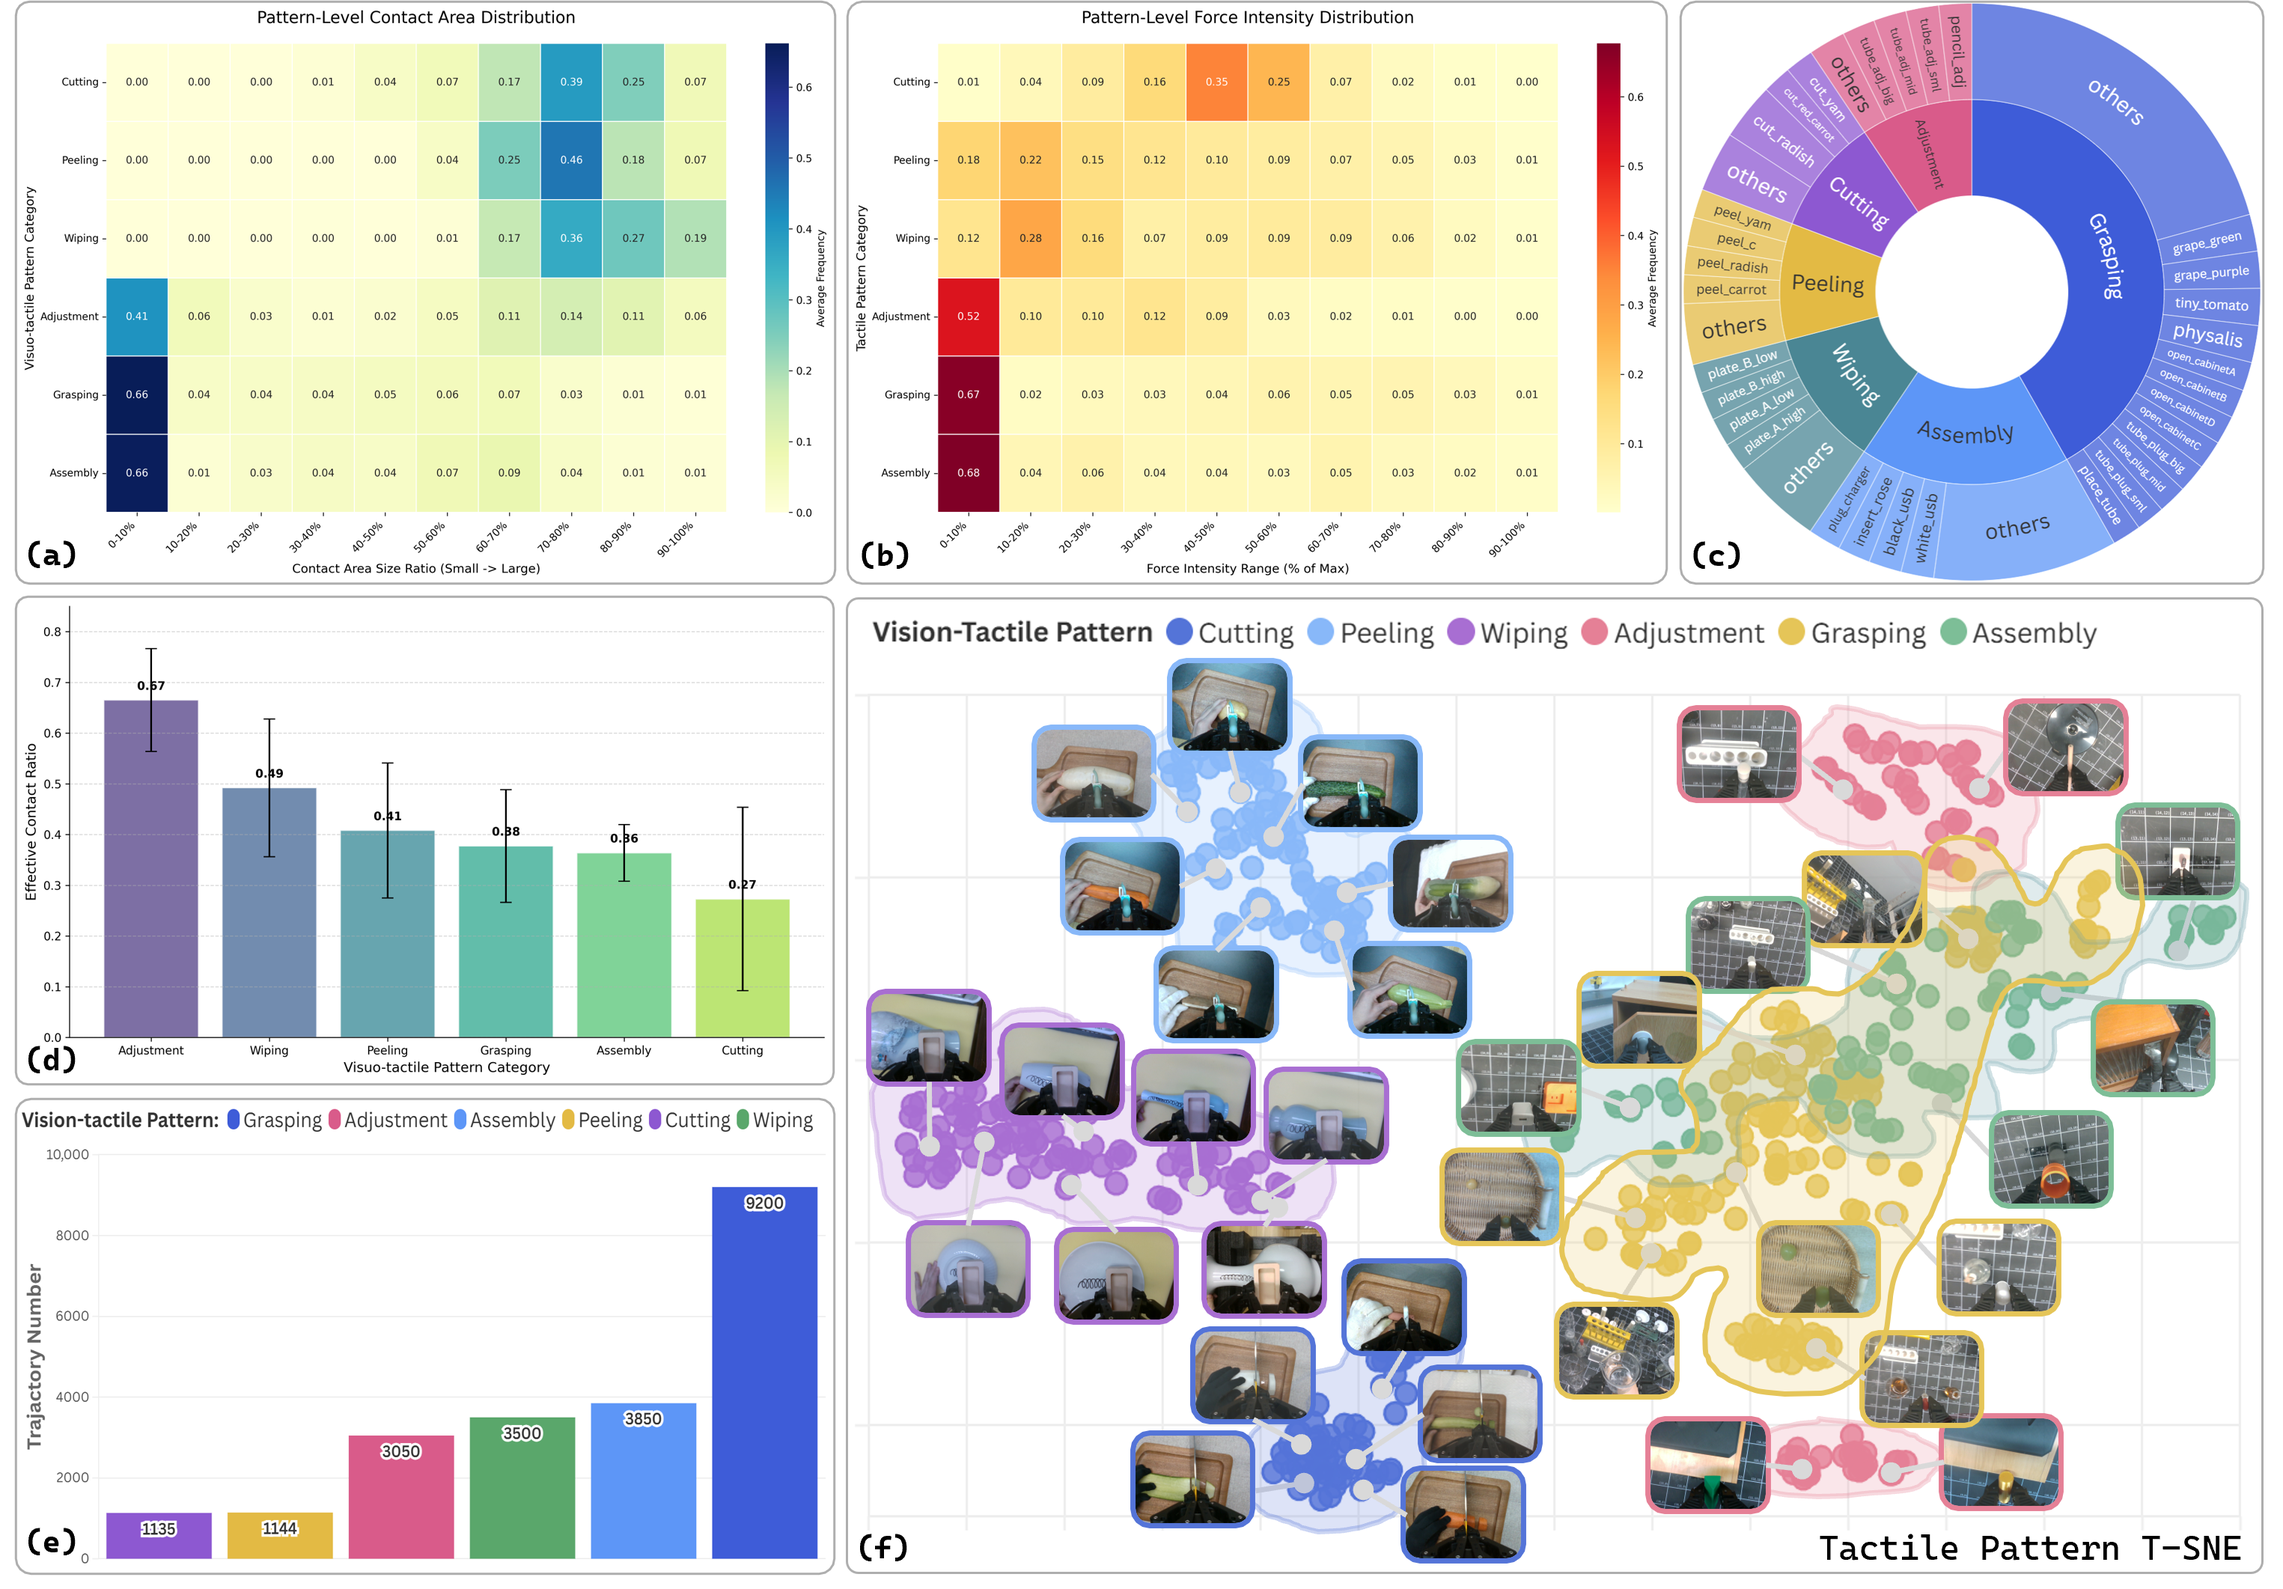
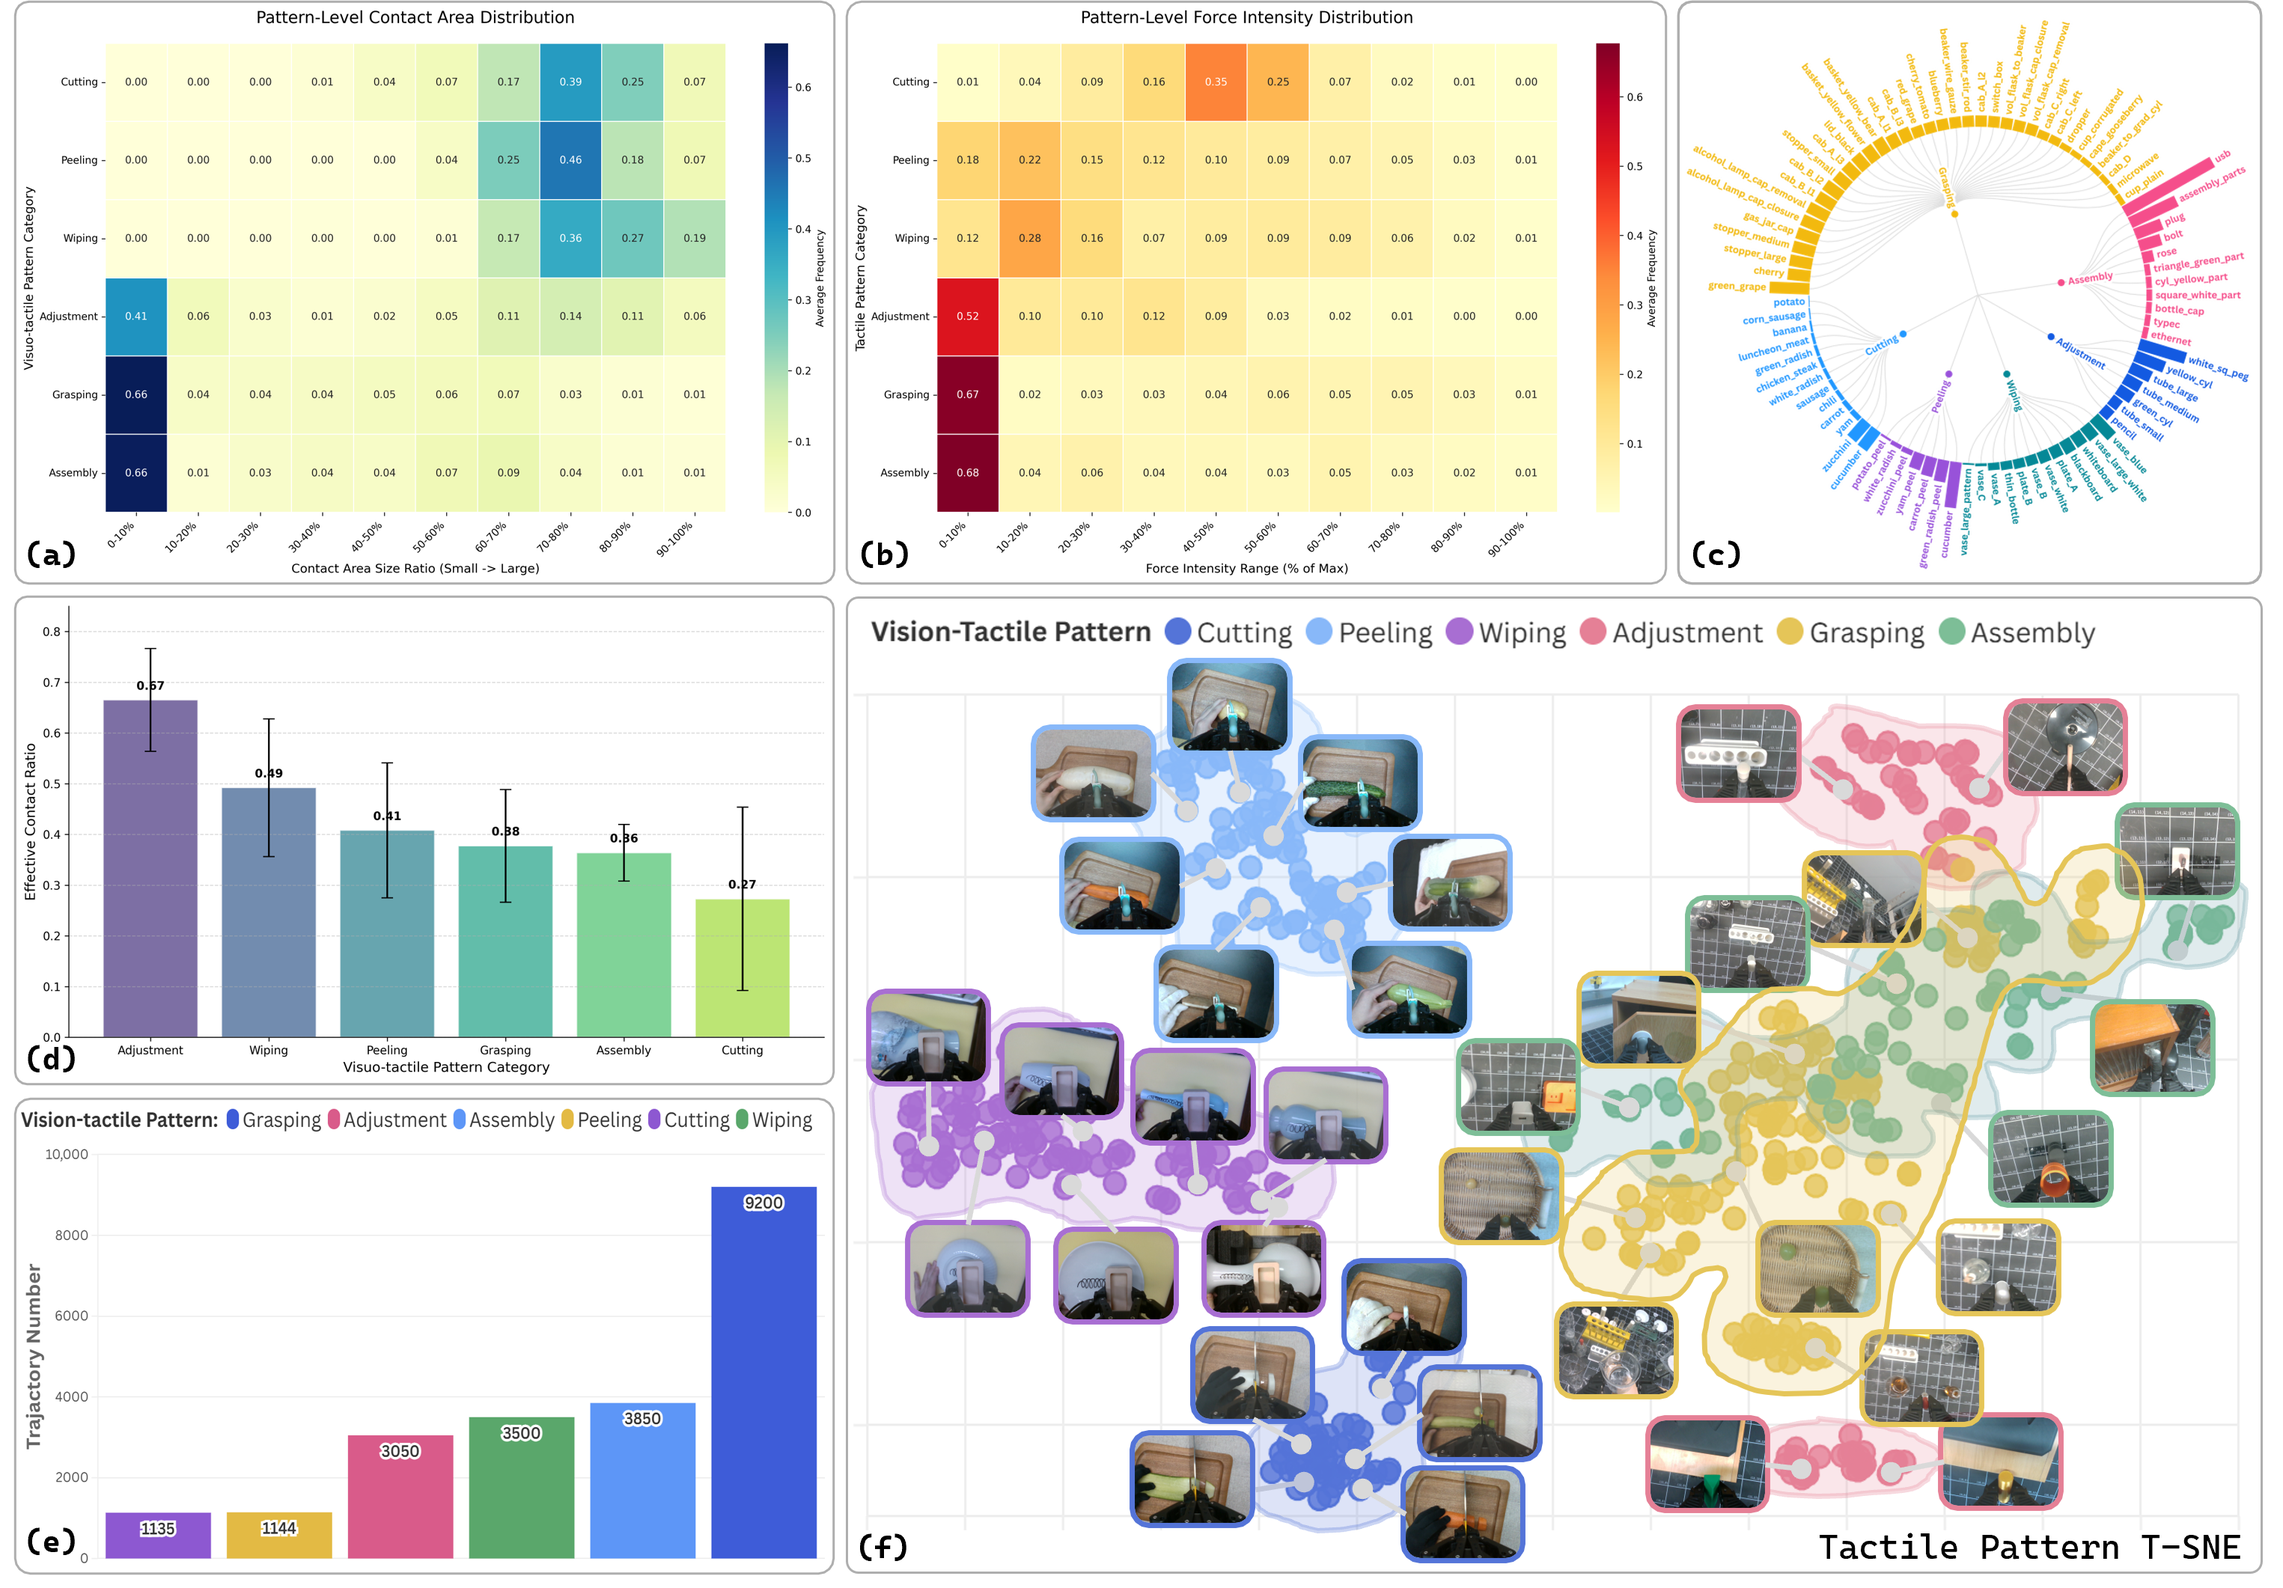
update authors

diff --git a/index.html b/index.html
@@ -396,7 +396,7 @@
       <span class="dot-dash">.</span>
 
       <div class="buttons" style="display:flex; justify-content:center; align-items:center; gap:12px; flex-wrap:wrap; width:100%;">
-        <a href="">
+        <a href="https://arxiv.org/abs/2603.19201v1">
           <div class="button">
             <svg class="svg-inline--fa fa-file-pdf fa-w-12 fa-lg" style="width: 20px; height: 20px; margin-top:0%" aria-hidden="true" focusable="false" data-prefix="fas" data-icon="file-pdf" role="img" xmlns="http://www.w3.org/2000/svg" viewBox="0 0 384 500">
               <path fill="currentColor" d="M181.9 256.1c-5-16-4.9-46.9-2-46.9 8.4 0 7.6 36.9 2 46.9zm-1.7 47.2c-7.7 20.2-17.3 43.3-28.4 62.7 18.3-7 39-17.2 62.9-21.9-12.7-9.6-24.9-23.4-34.5-40.8zM86.1 428.1c0 .8 13.2-5.4 34.9-40.2-6.7 6.3-29.1 24.5-34.9 40.2zM248 160h136v328c0 13.3-10.7 24-24 24H24c-13.3 0-24-10.7-24-24V24C0 10.7 10.7 0 24 0h200v136c0 13.2 10.8 24 24 24zm-8 171.8c-20-12.2-33.3-29-42.7-53.8 4.5-18.5 11.6-46.6 6.2-64.2-4.7-29.4-42.4-26.5-47.8-6.8-5 18.3-.4 44.1 8.1 77-11.6 27.6-28.7 64.6-40.8 85.8-.1 0-.1.1-.2.1-27.1 13.9-73.6 44.5-54.5 68 5.6 6.9 16 10 21.5 10 17.9 0 35.7-18 61.1-61.8 25.8-8.5 54.1-19.1 79-23.2 21.7 11.8 47.1 19.5 64 19.5 29.2 0 31.2-32 19.7-43.4-13.9-13.6-54.3-9.7-73.6-7.2zM377 105L279 7c-4.5-4.5-10.6-7-17-7h-6v128h128v-6.1c0-6.3-2.5-12.4-7-16.9zm-74.1 255.3c4.1-2.7-2.5-11.9-42.8-9 37.1 15.8 42.8 9 42.8 9z"></path>
@@ -404,7 +404,7 @@
           </div>
         </a>
 
-        <a href="">
+        <a href="https://github.com/MrSecant/OmniVTA">
           <div class="button">
             <svg class="svg-inline--fa fa-github fa-w-16" style="width: 20px; height: 20px;" aria-hidden="true" focusable="false" data-prefix="fab" data-icon="github" role="img" xmlns="http://www.w3.org/2000/svg" viewBox="0 -50 484 500">
               <path fill="currentColor" d="M165.9 397.4c0 2-2.3 3.6-5.2 3.6-3.3.3-5.6-1.3-5.6-3.6 0-2 2.3-3.6 5.2-3.6 3-.3 5.6 1.3 5.6 3.6zm-31.1-4.5c-.7 2 1.3 4.3 4.3 4.9 2.6 1 5.6 0 6.2-2s-1.3-4.3-4.3-5.2c-2.6-.7-5.5.3-6.2 2.3zm44.2-1.7c-2.9.7-4.9 2.6-4.6 4.9.3 2 2.9 3.3 5.9 2.6 2.9-.7 4.9-2.6 4.6-4.6-.3-1.9-3-3.2-5.9-2.9zM244.8 8C106.1 8 0 113.3 0 252c0 110.9 69.8 205.8 169.5 239.2 12.8 2.3 17.3-5.6 17.3-12.1 0-6.2-.3-40.4-.3-61.4 0 0-70 15-84.7-29.8 0 0-11.4-29.1-27.8-36.6 0 0-22.9-15.7 1.6-15.4 0 0 24.9 2 38.6 25.8 21.9 38.6 58.6 27.5 72.9 20.9 2.3-16 8.8-27.1 16-33.7-55.9-6.2-112.3-14.3-112.3-110.5 0-27.5 7.6-41.3 23.6-58.9-2.6-6.5-11.1-33.3 2.6-67.9 20.9-6.5 69 27 69 27 20-5.6 41.5-8.5 62.8-8.5s42.8 2.9 62.8 8.5c0 0 48.1-33.6 69-27 13.7 34.7 5.2 61.4 2.6 67.9 16 17.7 25.8 31.5 25.8 58.9 0 96.5-58.9 104.2-114.8 110.5 9.2 7.9 17 22.9 17 46.4 0 33.7-.3 75.4-.3 83.6 0 6.5 4.6 14.4 17.3 12.1C428.2 457.8 496 362.9 496 252 496 113.3 383.5 8 244.8 8zM97.2 352.9c-1.3 1-1 3.3.7 5.2 1.6 1.6 3.9 2.3 5.2 1 1.3-1 1-3.3-.7-5.2-1.6-1.6-3.9-2.3-5.2-1zm-10.8-8.1c-.7 1.3.3 2.9 2.3 3.9 1.6 1 3.6.7 4.3-.7.7-1.3-.3-2.9-2.3-3.9-2-.6-3.6-.3-4.3.7zm32.4 35.6c-1.6 1.3-1 4.3 1.3 6.2 2.3 2.3 5.2 2.6 6.5 1 1.3-1.3.7-4.3-1.3-6.2-2.2-2.3-5.2-2.6-6.5-1zm-11.4-14.7c-1.6 1-1.6 3.6 0 5.9 1.6 2.3 4.3 3.3 5.6 2.3 1.6-1.3 1.6-3.9 0-6.2-1.4-2.3-4-3.3-5.6-2z"></path>
@@ -412,7 +412,7 @@
           </div>
         </a>
 
-        <a href="">
+        <a href="https://github.com/MrSecant/OmniVTA_Hardware">
           <div class="button">
             <svg class="svg-inline--fa fa-github fa-w-16" style="width: 20px; height: 20px;" aria-hidden="true" focusable="false" data-prefix="fab" data-icon="github" role="img" xmlns="http://www.w3.org/2000/svg" viewBox="0 -50 484 500">
               <path fill="currentColor" d="M165.9 397.4c0 2-2.3 3.6-5.2 3.6-3.3.3-5.6-1.3-5.6-3.6 0-2 2.3-3.6 5.2-3.6 3-.3 5.6 1.3 5.6 3.6zm-31.1-4.5c-.7 2 1.3 4.3 4.3 4.9 2.6 1 5.6 0 6.2-2s-1.3-4.3-4.3-5.2c-2.6-.7-5.5.3-6.2 2.3zm44.2-1.7c-2.9.7-4.9 2.6-4.6 4.9.3 2 2.9 3.3 5.9 2.6 2.9-.7 4.9-2.6 4.6-4.6-.3-1.9-3-3.2-5.9-2.9zM244.8 8C106.1 8 0 113.3 0 252c0 110.9 69.8 205.8 169.5 239.2 12.8 2.3 17.3-5.6 17.3-12.1 0-6.2-.3-40.4-.3-61.4 0 0-70 15-84.7-29.8 0 0-11.4-29.1-27.8-36.6 0 0-22.9-15.7 1.6-15.4 0 0 24.9 2 38.6 25.8 21.9 38.6 58.6 27.5 72.9 20.9 2.3-16 8.8-27.1 16-33.7-55.9-6.2-112.3-14.3-112.3-110.5 0-27.5 7.6-41.3 23.6-58.9-2.6-6.5-11.1-33.3 2.6-67.9 20.9-6.5 69 27 69 27 20-5.6 41.5-8.5 62.8-8.5s42.8 2.9 62.8 8.5c0 0 48.1-33.6 69-27 13.7 34.7 5.2 61.4 2.6 67.9 16 17.7 25.8 31.5 25.8 58.9 0 96.5-58.9 104.2-114.8 110.5 9.2 7.9 17 22.9 17 46.4 0 33.7-.3 75.4-.3 83.6 0 6.5 4.6 14.4 17.3 12.1C428.2 457.8 496 362.9 496 252 496 113.3 383.5 8 244.8 8zM97.2 352.9c-1.3 1-1 3.3.7 5.2 1.6 1.6 3.9 2.3 5.2 1 1.3-1 1-3.3-.7-5.2-1.6-1.6-3.9-2.3-5.2-1zm-10.8-8.1c-.7 1.3.3 2.9 2.3 3.9 1.6 1 3.6.7 4.3-.7.7-1.3-.3-2.9-2.3-3.9-2-.6-3.6-.3-4.3.7zm32.4 35.6c-1.6 1.3-1 4.3 1.3 6.2 2.3 2.3 5.2 2.6 6.5 1 1.3-1.3.7-4.3-1.3-6.2-2.2-2.3-5.2-2.6-6.5-1zm-11.4-14.7c-1.6 1-1.6 3.6 0 5.9 1.6 2.3 4.3 3.3 5.6 2.3 1.6-1.3 1.6-3.9 0-6.2-1.4-2.3-4-3.3-5.6-2z"></path>
@@ -420,7 +420,11 @@
           </div>
         </a>
 
-        <a href=""><div class="button" style="padding-left:23px"><i class="fas fa-database"></i>&nbsp;OmniViTac Dataset</div></a>
+        <a href="">
+          <div class="button" style="padding-left:23px">
+            <span>🤗</span>&nbsp;OmniViTac Dataset
+          </div>
+        </a>
         <a href=""><div class="button" style="padding-left:23px"><i class="fab fa-youtube"></i>&nbsp;Demo</div></a>
       </div>
     </div>
@@ -434,20 +438,37 @@
       <div style="text-align: center;">
         <div style="margin-bottom: 10px;">
           <img src="assets/author/tars.png"
-              style="width: auto; height: 150px; vertical-align: middle;">
+              style="width: auto; height: 250px; vertical-align: middle;">
         </div>
-
         <div>
           <img src="assets/author/nus.jpg" style="width: auto; height: 140px; vertical-align: middle; margin-right: -10px;">
           <img src="assets/author/fudan.png" style="width: auto; height: 120px; vertical-align: middle; margin-left: 0px; margin-right: 0px;">
           <img src="assets/author/casia.jpg" style="width: auto; height: 120px; vertical-align: middle; margin-left: 10px; margin-right: -15px;">
-          <img src="assets/author/clemson.png" style="width: auto; height: 120px; vertical-align: middle; margin-left: 0px; margin-right: -15px;">
-          <img src="assets/author/sjtu.png" style="width: auto; height: 120px; vertical-align: middle; margin-left: 0px; margin-right: 10px;">
           <img src="assets/author/thu.png" style="width: auto; height: 120px; vertical-align: middle; margin-left: 6px; margin-right: 16px;">
-          <img src="assets/author/hkustgz.png" style="width: auto; height: 120px; vertical-align: middle; margin-left: 6px; margin-right: 16px;">
-          <img src="assets/author/pku.png" style="width: auto; height: 120px; vertical-align: middle; margin-left: 0px; margin-right: 4px;">
-          <img src="assets/author/zgca.png" style="width: auto; height: 145px; vertical-align: middle; margin-left: 0px;">
+          <img src="assets/author/zgca.png" style="width: auto; height: 140px; vertical-align: middle; margin-left: 0px; margin-right: 4px;">
+          <img src="assets/author/buaa.png" style="width: auto; height: 120px; vertical-align: middle; margin-left: 0px;">
         </div>
+            <div class="is-size-5 publication-authors">
+              <!-- Paper authors -->
+              <span class="author-block"> <a href="https://mrsecant.github.io/" target="_blank" style="color:#1a73e8;">Yuhang Zheng</a><sup>1,2*</sup>,</span>
+              <span class="author-block"> <a href="https://scholar.google.com/citations?user=W-msX90AAAAJ&hl=en" target="_blank" style="color:#1a73e8;">Songen Gu</a><sup>1,3*</sup>,</span>
+              <span class="author-block"> <a href="https://ericlee0224.github.io/" target="_blank" style="color:#1a73e8;">Weize Li</a><sup>1</sup>,</span>
+              <span class="author-block"> <a href="https://scholar.google.com/citations?user=anGhGdYAAAAJ&hl=en" target="_blank" style="color:#1a73e8;">Yupeng Zheng</a><sup>1,4†</sup>,</span>
+              <span class="author-block"> <a>Yujie Zang</a style="color:#1a73e8;"><sup>2</sup>,</span>
+              <span class="author-block"> <a>Shuai Tian</a style="color:#1a73e8;"><sup>4</sup>,</span>
+              <span class="author-block"> <a href="https://getterupper.github.io/" target="_blank" style="color:#1a73e8;">Xiang Li</a><sup>1,5</sup>,</span>
+              <br>
+              <span class="author-block"> <a href="https://cehao1.github.io/" target="_blank" style="color:#1a73e8;">Ce Hao</a><sup>6</sup>,</span>
+              <span class="author-block"> <a href="https://chengaopro.github.io/" target="_blank" style="color:#1a73e8;">Chen Gao</a><sup>2,7</sup>,</span>
+              <span class="author-block"> <a href="https://sites.google.com/site/siliuhome/" target="_blank" style="color:#1a73e8;">Si Liu</a><sup>7</sup>,</span>
+              <span class="author-block"> <a href="https://haoranli-drl.github.io/" target="_blank" style="color:#1a73e8;">Haoran Li</a><sup>4</sup>,</span>
+              <span class="author-block"> <a href="https://air.tsinghua.edu.cn/en/info/1046/1621.htm" target="_blank" style="color:#1a73e8;">Yilun Chen</a><sup>1</sup>,</span>
+              <span class="author-block"> <a href="https://scholar.google.com/citations?user=W-msX90AAAAJ" target="_blank" style="color:#1a73e8;">Shuicheng Yan</a><sup>2†</sup>,</span>
+              <span class="author-block"> <a style="color:#1a73e8;">Wenchao Ding</a><sup>2†</sup>,</span>
+
+              <span class="eql-cntrb"><br><strong>(<sup>*</sup>Equal Contribution; <sup>†</sup>Corresponding Author)</strong></span>
+                  
+            </div>
       </div>
     </div>
   </div>
